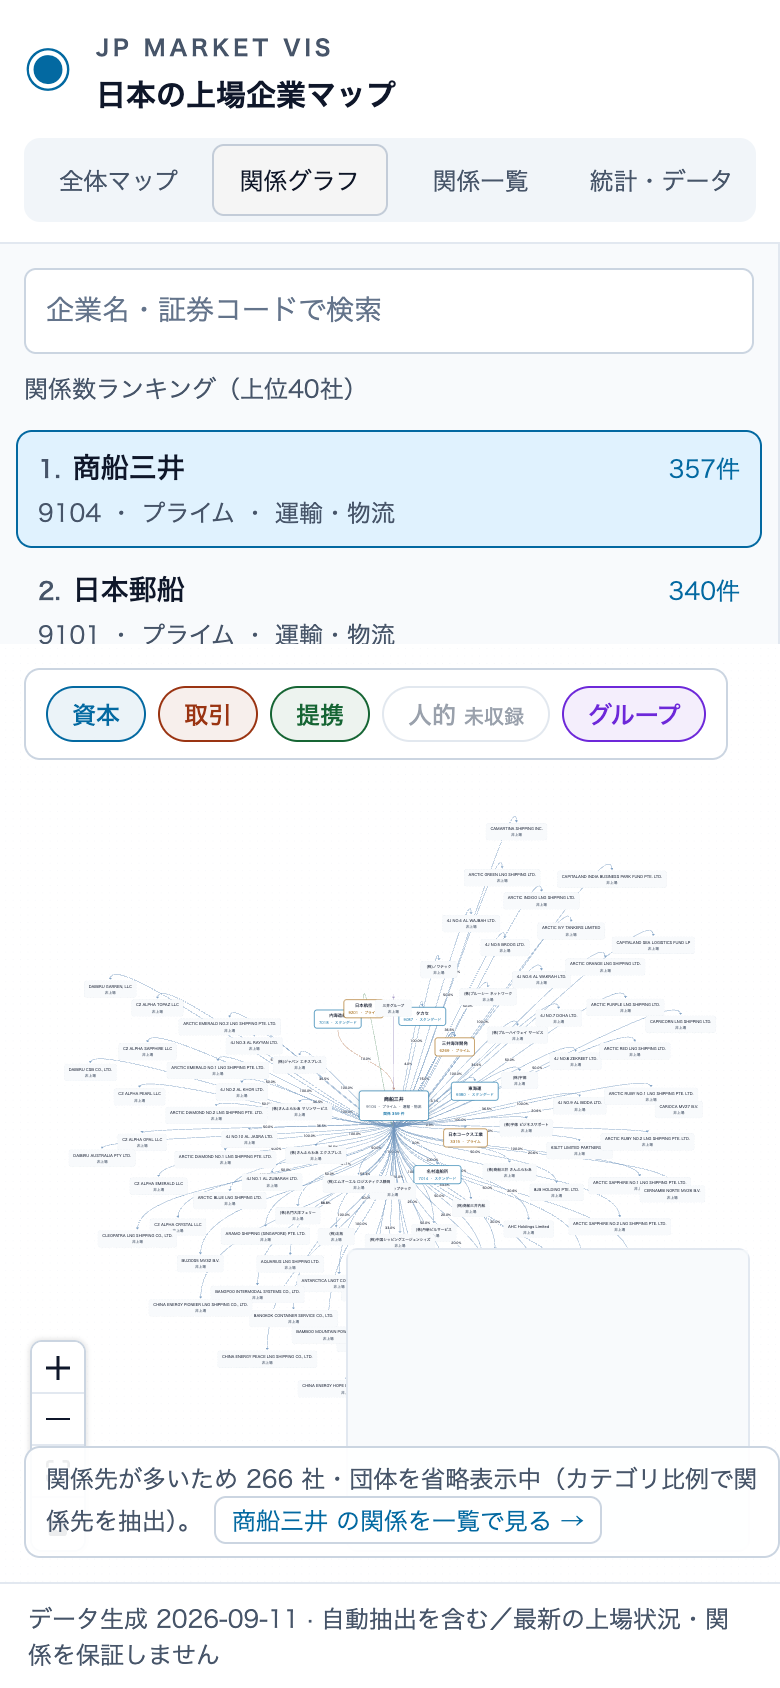
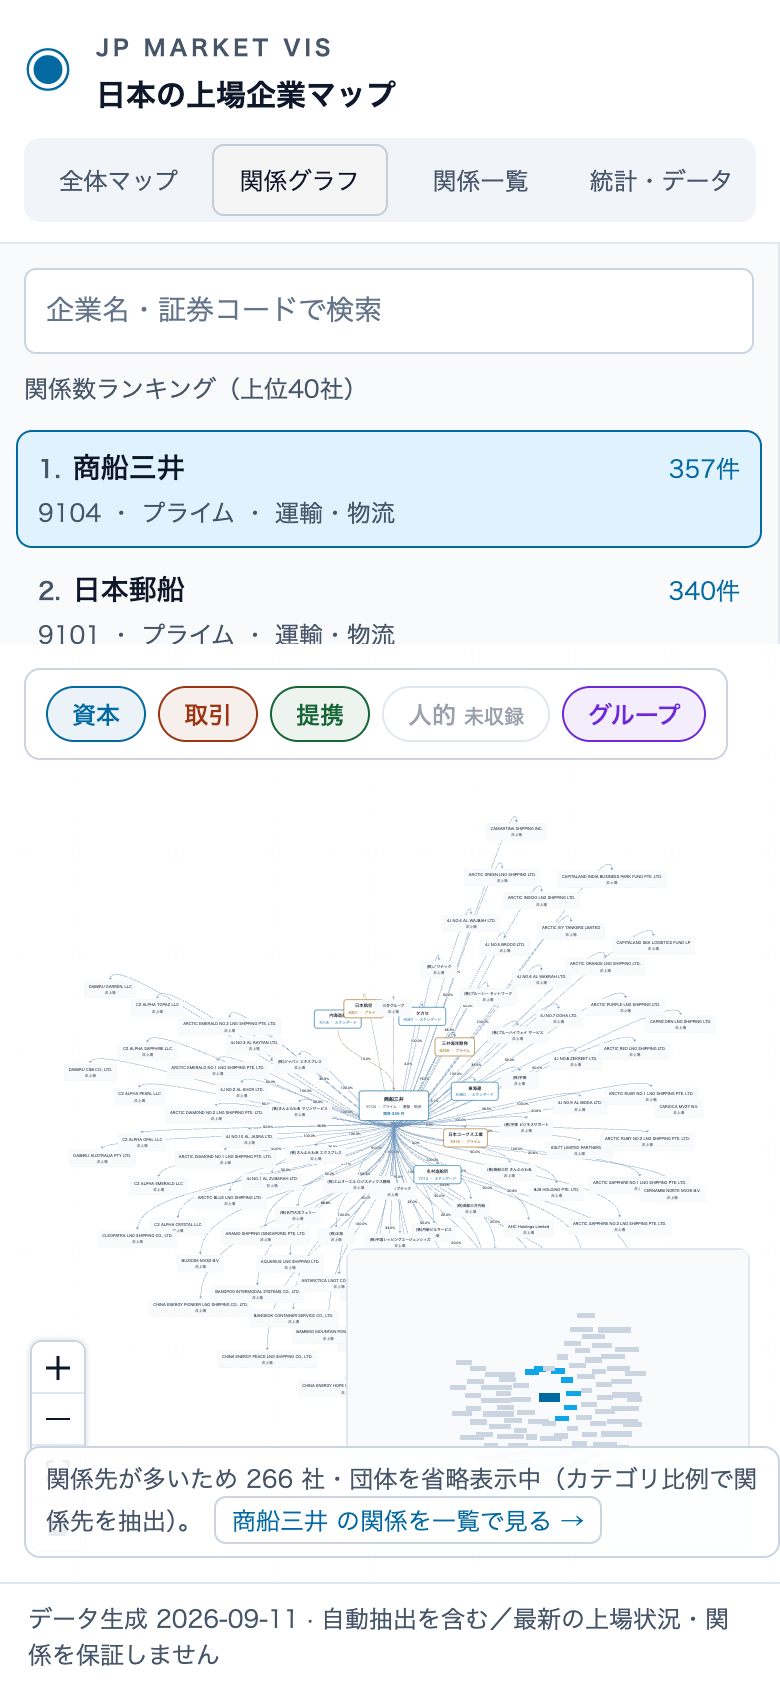
関係グラフのノードにホバーしたときの表示崩れを直し、ミニマップにノードを描く
- 中心企業のように接続する線が多いノードにホバーすると、全部の線に「関連会社 36.5%」の
  ような種別ラベルが付いて中心付近で重なり合い、崩れて見えていた。種別ラベルを付けるのは
  接続する線が 8 本以下のときだけにし、多い場合は太線・減光の強調だけにする
  （線にホバーしたときの種別表示は従来どおり）
- ノード配列を毎回作り直すため React Flow の計測結果（measured）が渡らず、ミニマップが
  ノードを描いていなかった。onNodesChange の dimensions 変更を保持してノードに載せる
- qa/run_qa.mjs: 中心企業にホバーしても種別ラベルが増えないこと、ミニマップにノードが
  描かれることの検査を追加

QA 73/73 合格（qa/results/2026-09-18-2d-map）、npm test 22 件、ビルド成功。

Changed region(s): [[0.5846, 0.7701, 0.8308, 0.8626]]

diff --git a/src/App.jsx b/src/App.jsx
@@ -137,20 +137,40 @@ function GraphView({ centerCode, setCenterCode, onShowInTable }) {
 
   // ノードにホバー → そのノードに接続するエッジ/ノードを強調、他を減光。
   // エッジにホバー → 関係タイプ名のラベルを一時表示。
+  // React Flow が計測したノードの大きさ。ノード配列は毎回作り直すので、計測結果を自分で保持して渡さないと
+  // ミニマップが（大きさ未確定として）ノードを描かない
+  const [measured, setMeasured] = useState({});
+  const onNodesChange = useCallback((changes) => {
+    setMeasured((prev) => {
+      let next = null;
+      for (const c of changes) if (c.type === 'dimensions' && c.dimensions) (next ??= { ...prev })[c.id] = c.dimensions;
+      return next ?? prev;
+    });
+  }, []);
   const displayNodes = useMemo(() => {
-    if (!hoveredNodeId) return nodes;
     const connected = new Set([hoveredNodeId]);
-    for (const e of edges) {
-      if (e.source === hoveredNodeId) connected.add(e.target);
-      if (e.target === hoveredNodeId) connected.add(e.source);
+    if (hoveredNodeId) {
+      for (const e of edges) {
+        if (e.source === hoveredNodeId) connected.add(e.target);
+        if (e.target === hoveredNodeId) connected.add(e.source);
+      }
     }
     return nodes.map((n) => ({
       ...n,
-      data: { ...n.data, dimmed: !connected.has(n.id) },
+      measured: measured[n.id],
+      data: { ...n.data, dimmed: hoveredNodeId ? !connected.has(n.id) : false },
     }));
-  }, [nodes, edges, hoveredNodeId]);
+  }, [nodes, edges, hoveredNodeId, measured]);
 
+  // ノードにホバーしたとき、接続するエッジに種別名を付けるのは本数が少ない場合だけ。
+  // 中心企業のように数十本あると、ラベルが中心付近で重なり合って読めなくなる（崩れて見える）ため、強調（太線・減光）だけにする
+  const HOVER_LABEL_MAX_EDGES = 8;
+  const hoverNodeEdgeCount = useMemo(
+    () => (hoveredNodeId ? edges.filter((e) => e.source === hoveredNodeId || e.target === hoveredNodeId).length : 0),
+    [edges, hoveredNodeId],
+  );
   const displayEdges = useMemo(() => {
+    const labelConnected = hoverNodeEdgeCount > 0 && hoverNodeEdgeCount <= HOVER_LABEL_MAX_EDGES;
     return edges.map((e) => {
       const touchesHoverNode =
         hoveredNodeId && (e.source === hoveredNodeId || e.target === hoveredNodeId);
@@ -160,10 +180,11 @@ function GraphView({ centerCode, setCenterCode, onShowInTable }) {
       const typeJa = RELATION_TYPES[rel.relation_type]?.ja ?? rel.relation_type;
       const dim = hoveredNodeId && !touchesHoverNode;
       const emphasize = isHoverEdge || touchesHoverNode;
+      const withType = isHoverEdge || (touchesHoverNode && labelConnected);
       return {
         ...e,
-        // ホバー対象のエッジ（およびホバー中ノードに接続するエッジ）に種別名を表示
-        label: isHoverEdge || touchesHoverNode ? `${typeJa}${e.label ? ` ${e.label}` : ''}` : e.label,
+        // ホバー対象のエッジ（およびホバー中ノードに接続するエッジが少ないとき）に種別名を表示
+        label: withType ? `${typeJa}${e.label ? ` ${e.label}` : ''}` : e.label,
         style: {
           ...e.style,
           opacity: dim ? 0.12 : emphasize ? 1 : e.style.opacity,
@@ -171,7 +192,7 @@ function GraphView({ centerCode, setCenterCode, onShowInTable }) {
         },
       };
     });
-  }, [edges, hoveredNodeId, hoveredEdgeId]);
+  }, [edges, hoveredNodeId, hoveredEdgeId, hoverNodeEdgeCount]);
 
   const onNodeClick = useCallback(
     (_, node) => {
@@ -269,6 +290,7 @@ function GraphView({ centerCode, setCenterCode, onShowInTable }) {
           nodes={displayNodes}
           edges={displayEdges}
           nodeTypes={nodeTypes}
+          onNodesChange={onNodesChange}
           onNodeClick={onNodeClick}
           onEdgeClick={onEdgeClick}
           onNodeMouseEnter={onNodeMouseEnter}

diff --git a/qa/results/2026-09-18-2d-map/REPORT.md b/qa/results/2026-09-18-2d-map/REPORT.md
@@ -1,10 +1,10 @@
 # 実操作レビュー結果 2026-09-18
 
-- 対象コミット: `1c480e307376e5f2a60793bf013e78dcf3f134a9`
+- 対象コミット: `23fb338af545a3a4417a065298e9979a4e52da33`
 - URL: http://localhost:5184/JP_Market_Vis/
 - ブラウザ: Chrome 153.0.8010.48 (headless, Playwright)
 - 端末: darwin arm64（PC 1440×900 / 200%拡大相当 720×450 / タッチ 390×844 はエミュレーション。実機は未実施）
-- 結果: 71/71 合格
+- 結果: 73/73 合格
 
 | シナリオ | 項目 | 結果 | 補足 |
 | --- | --- | --- | --- |
@@ -18,7 +18,7 @@
 | ロード | 狭い画面で横スクロールなし | 合格 |  |
 | ロード | 失敗時に簡潔なエラー表示（無限ローディングにならない） | 合格 | データを読み込めませんでした  再試行 |
 | ロード | 再試行で本画面を表示 | 合格 |  |
-| PC初回 | 初回表示（マップ描画まで） | 合格 | 1252 ms |
+| PC初回 | 初回表示（マップ描画まで） | 合格 | 1033 ms |
 | PC初回 | コンソールエラーなし | 合格 |  |
 | PC初回 | 横スクロールなし | 合格 |  |
 | PC初回 | 見出し・操作部品の重なりなし | 合格 | {"capTools":false} |
@@ -45,6 +45,8 @@
 | フィルタ | グループのみで「全体を表示」が機能する | 合格 | k=20.000 中心(0,0) |
 | 2D | 円の内側だけがホバー対象（グループのみ） | 合格 | ＧＭＯペパボ 中心(1150,327) r=96.0 中心=ＧＭＯペパボ 内側=ＧＭＯペパボ 外側=なし/なし/なし/なし |
 | 2D | 円の中心のクリックで同じ企業が開く（グループのみ） | 合格 | ＧＭＯペパボ -> ＧＭＯペパボ |
+| 往復 | 中心企業にホバーしても線の種別ラベルが増えない（崩れない） | 合格 | 線 119 本 / 種別ラベル 0 -> 0 |
+| 往復 | ミニマップにノードが描かれる | 合格 | 91 個 |
 | 往復 | 関係グラフでエッジを選択して詳細を表示 | 合格 |  |
 | 視認性 | 文字コントラスト 4.5:1（PC 関係グラフ＋詳細） | 合格 | 493 要素 |
 | 往復 | 全体マップの検索・カテゴリ・件数を復元 | 合格 |  |
